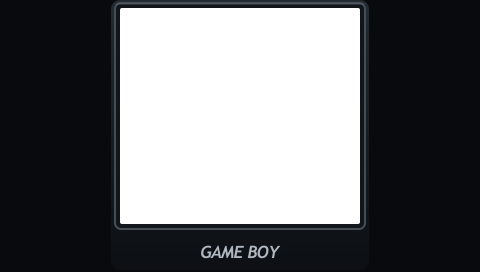
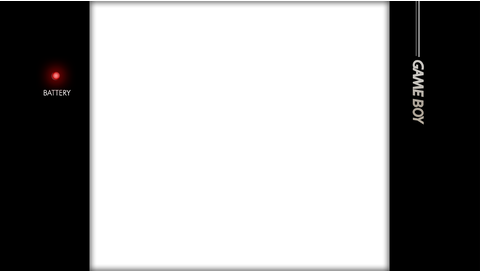
Use Watomsk handheld overlays

Changed region(s): [[0.0, 0.0, 1.0, 1.0], [0.0938, 0.2353, 0.1562, 0.3529]]

diff --git a/src/frontend/game_session.cpp b/src/frontend/game_session.cpp
@@ -112,15 +112,15 @@ bool borderAssetFor(db::System system, BorderAsset& out) {
     switch (system) {
         case db::System::GameBoy:
             out = {rs_asset_border_gb_png, rs_asset_border_gb_png_len,
-                   120.f, 8.f, 240.f, 216.f};
+                   90.f, 1.f, 300.f, 270.f};
             return true;
         case db::System::GameBoyColor:
             out = {rs_asset_border_gbc_png, rs_asset_border_gbc_png_len,
-                   120.f, 8.f, 240.f, 216.f};
+                   90.f, 1.f, 300.f, 270.f};
             return true;
         case db::System::GBA:
             out = {rs_asset_border_gba_png, rs_asset_border_gba_png_len,
-                   75.f, 8.f, 330.f, 220.f};
+                   60.f, 1.f, 360.f, 240.f};
             return true;
         default:
             return false;

diff --git a/assets/overlays/README.md b/assets/overlays/README.md
@@ -1,12 +1,14 @@
 # RetroShell handheld borders
 
-These GB, GBC, and GBA borders are original RetroShell vector assets. They use
-the handhelds' native display proportions inside a dark screen-lens bezel, with
-model-name typography on the lower bezel and no game artwork or console-body
-decoration.
+The GB, GBC, and GBA border PNGs are scaled adaptations of `GB.png`, `GBC.png`,
+and `GBA.png`, the default black 1080p overlays from
+[Watomsk/Overlays](https://github.com/Watomsk/Overlays), commit
+`8aaf9a930c16a33df581ebd481086c29a0cb7298`.
 
-The source SVGs and generated PNGs are covered by RetroShell's root MIT
-license.
+The upstream repository does not provide a license. These PNGs therefore are
+not covered by RetroShell's MIT license and should not be redistributed without
+permission from their author. They are included in this local build at the
+user's direction.
 
 Game Boy, Game Boy Color, and Game Boy Advance are trademarks of Nintendo.
 RetroShell is not affiliated with or endorsed by Nintendo.

diff --git a/THIRD_PARTY_NOTICES.md b/THIRD_PARTY_NOTICES.md
@@ -8,6 +8,19 @@ The interface is set in IBM Plex Mono, Copyright © 2017 IBM Corp., licensed
 under the SIL Open Font License 1.1. The complete license is stored at
 `assets/fonts/OFL-IBMPlexMono.txt`.
 
+## Handheld overlay artwork
+
+The GB, GBC, and GBA overlay PNGs under `assets/overlays/` are scaled
+adaptations of the default black 1080p overlays from
+[Watomsk/Overlays](https://github.com/Watomsk/Overlays), commit
+`8aaf9a930c16a33df581ebd481086c29a0cb7298`. The upstream repository does not
+provide a license. These images are not covered by RetroShell's MIT license and
+should not be redistributed without permission from their author. They are
+included in this local build at the user's direction.
+
+Game Boy, Game Boy Color, and Game Boy Advance are trademarks of Nintendo.
+RetroShell is not affiliated with or endorsed by Nintendo.
+
 | Core | Upstream | License |
 |---|---|---|
 | Gambatte | libretro/gambatte-libretro | GPL-2.0 |
